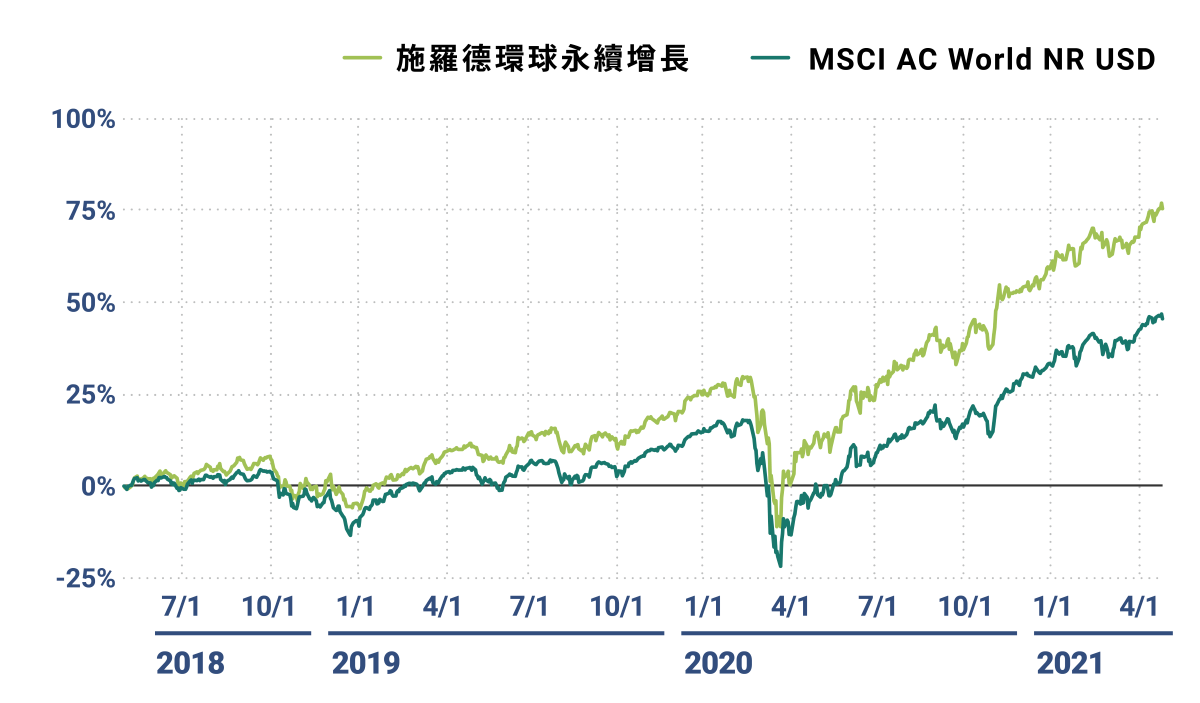
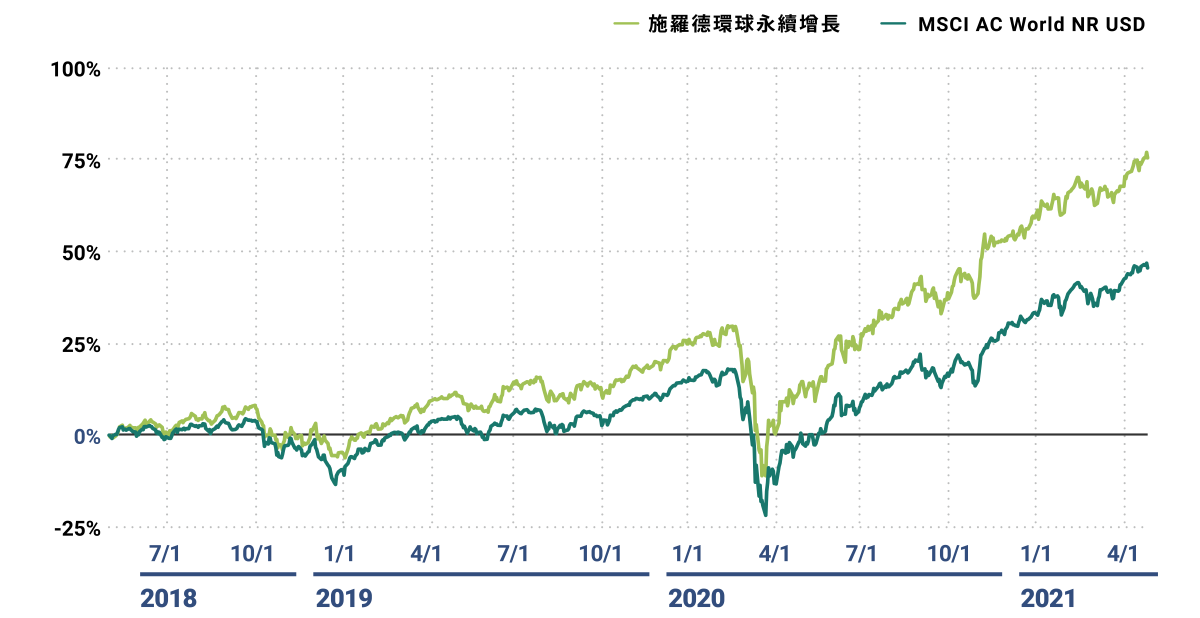
updated photo

diff --git a/src/containers/BackToTop/index.js b/src/containers/BackToTop/index.js
@@ -1,6 +1,6 @@
 import React from 'react'
 
-import Container from '../../components/Container'
+import Box from '../../components/Box'
 import Button from '../../components/Button'
 import Arrow from '../../components/Arrow'
 
@@ -8,9 +8,10 @@ import { responsive } from '../../components/ThemeProvider/theme'
 
 const BackToTop = () => {
   return (
-    <Container textAlign="center" pb="4em">
+    <Box position="fixed" right="1em" bottom="2em">
         <Button.transparent
           fontSize={responsive('1em', '1.5em')}
+          px="0"
           onClick={() => {
             window.scrollTo({ let: 0, top: 0, behavior: 'smooth' })
             window.gaTrackClick('返回頂端')
@@ -20,7 +21,7 @@ const BackToTop = () => {
           <br />
           返回頂端
         </Button.transparent>
-    </Container>
+    </Box>
   )
 }
 

diff --git a/src/containers/Sections/GSG/index.js b/src/containers/Sections/GSG/index.js
@@ -17,6 +17,7 @@ import ESG2_1 from './1-2-1.png'
 import ESG2_2 from './1-2-2.png'
 import ESG2_3 from './1-2-3.png'
 import chart from './1-3.png'
+import mobile_chart from './mobile-1-3.png'
 
 // import Table from '../Charts/Table'
 
@@ -112,7 +113,7 @@ const ESG = ({ innerRef }) => {
         <Box mt="2em">
           <Text.SubTitle>亮眼的投資表現</Text.SubTitle>
           <Box mt="1em">
-            <Image src={chart} />
+            <Image src={isMobile ? mobile_chart : chart} />
           </Box>
           <Source>資料來源：Lipper, USD, as of 2021/4/30. 本基金參考指標為MSCI AC World Index.</Source>
         </Box>

diff --git a/src/containers/Sections/SustainEx/index.js b/src/containers/Sections/SustainEx/index.js
@@ -9,7 +9,7 @@ import useResponsive from '../../../contexts/mediaQuery/useResponsive'
 
 import photo1 from './3-1.png'
 import photo2 from './3-2.png'
-import mobilephoto2 from './mobile-3-2.png'
+import mobile_photo2 from './mobile-3-2.png'
 
 const photo = [
   {
@@ -19,7 +19,7 @@ const photo = [
   },
   {
     src: photo2,
-    mobile_src: mobilephoto2,
+    mobile_src: mobile_photo2,
     // width: responsive('100%', '75%')
   }
 ]
